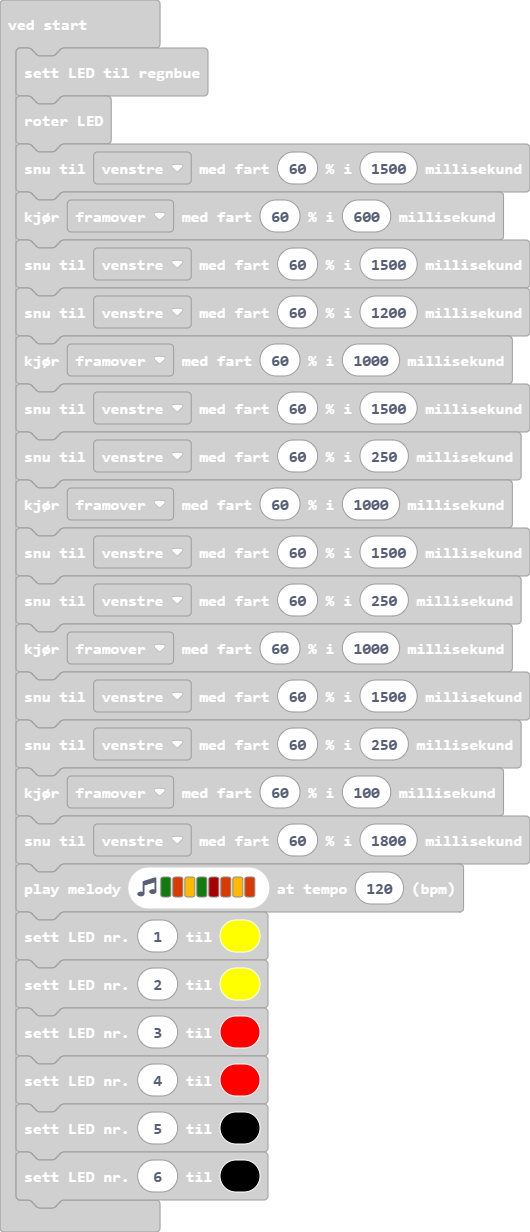
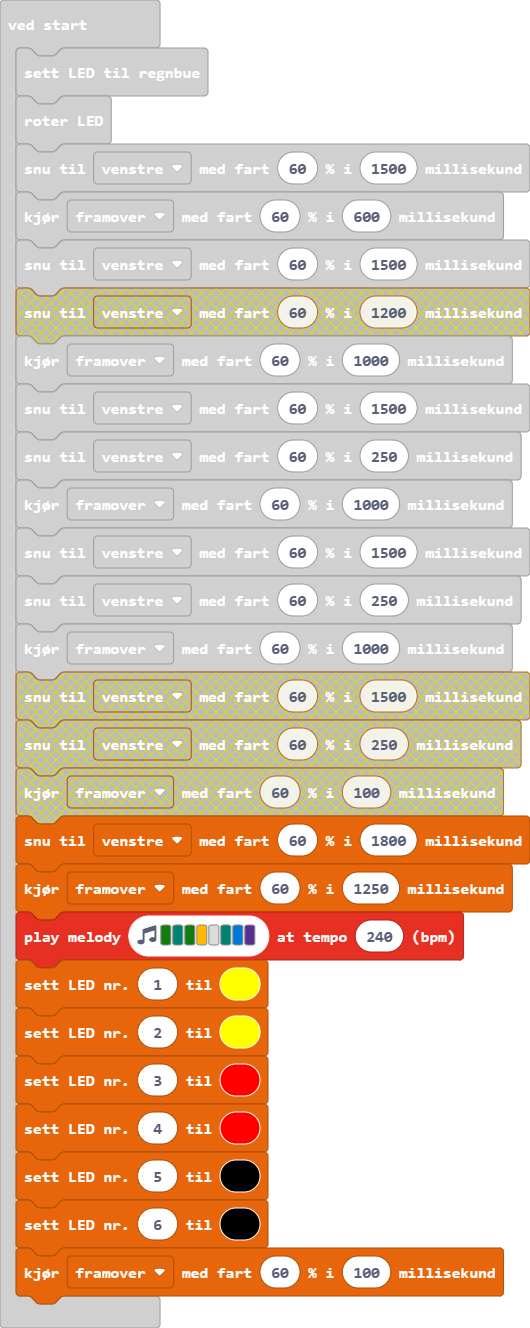
Oppdater main.blocks, main.ts

diff --git a/main.ts b/main.ts
@@ -3,7 +3,6 @@ bitbot.ledRotate()
 bitbot.rotatems(BBRobotDirection.Left, 60, 1500)
 bitbot.goms(BBDirection.Forward, 60, 600)
 bitbot.rotatems(BBRobotDirection.Left, 60, 1500)
-bitbot.rotatems(BBRobotDirection.Left, 60, 1200)
 bitbot.goms(BBDirection.Forward, 60, 1000)
 bitbot.rotatems(BBRobotDirection.Left, 60, 1500)
 bitbot.rotatems(BBRobotDirection.Left, 60, 250)
@@ -11,11 +10,10 @@ bitbot.goms(BBDirection.Forward, 60, 1000)
 bitbot.rotatems(BBRobotDirection.Left, 60, 1500)
 bitbot.rotatems(BBRobotDirection.Left, 60, 250)
 bitbot.goms(BBDirection.Forward, 60, 1000)
-bitbot.rotatems(BBRobotDirection.Left, 60, 1500)
-bitbot.rotatems(BBRobotDirection.Left, 60, 250)
 bitbot.goms(BBDirection.Forward, 60, 100)
 bitbot.rotatems(BBRobotDirection.Left, 60, 1800)
-music.playMelody("G B A G C5 B A B ", 120)
+bitbot.goms(BBDirection.Forward, 60, 1250)
+music.playMelody("G F G A - F E D ", 240)
 bitbot.setPixelColor(1, 0xFFFF00)
 bitbot.setPixelColor(2, 0xFFFF00)
 bitbot.setPixelColor(3, 0xFF0000)
